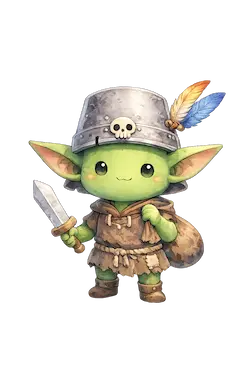
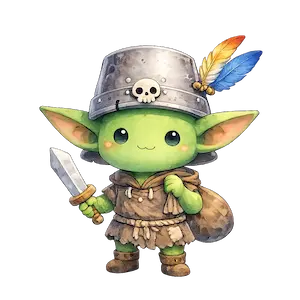
Update enemy death handling and appearance effects
Improved poison death log message and added death check in battle_manager.js. Removed unused showSplittingAppear method and preloaded zabochi.webp in battle_director.js. Updated CSS for .zabochi-appear to use !important. Updated goblin.webp resource.

Changed region(s): [[0.112, 0.12, 0.896, 0.93]]

diff --git a/battle_director.js b/battle_director.js
@@ -6,6 +6,9 @@ export class BattleDirector {
         this.effects = effects;
         this.party = party;
         this.enemies = enemies;
+        
+        const img = new Image();
+        img.src = './resource/zabochi.webp';
     }
 
     /**
@@ -209,26 +212,6 @@ export class BattleDirector {
         }
     }
 
-    // 登場演出
-    showSplittingAppear(startIndex) {
-        // startIndex=左, startIndex+2=右
-        const unitLeft = document.getElementById(`enemy-sprite-${startIndex}`);
-        const unitRight = document.getElementById(`enemy-sprite-${startIndex+2}`);
-
-        // 左側
-        if (unitLeft) {
-            unitLeft.classList.remove('appear-left'); 
-            void unitLeft.offsetWidth; 
-            unitLeft.classList.add('appear-left');
-        }
-
-        // 右側
-        if (unitRight) {
-            unitRight.classList.remove('appear-right');
-            void unitRight.offsetWidth;
-            unitRight.classList.add('appear-right');
-        }
-    }
 
     showSplittingTransform(oldName) {
         this.ui.addLog(`${oldName}は3匹に分裂した！`, "#ff00ff");

diff --git a/battle_manager.js b/battle_manager.js
@@ -166,7 +166,7 @@ export class BattleManager {
             }
 
             // 描画更新: 毒で死んだ場合の画像更新なども含めて行う
-            this.ui.refreshEnemyGraphics(this.state.enemies); 
+            //this.ui.refreshEnemyGraphics(this.state.enemies); 
             // その後にアイコン（数値）を更新する
             this.updateUI();
             
@@ -175,7 +175,9 @@ export class BattleManager {
 
             // 毒で倒れた場合
             if (!actor.is_alive()) {
-                this.ui.addLog(`${actor.name}は力尽きた...`, "#e74c3c");
+                this.ui.addLog(`${actor.name}は 毒に蝕まれ、力尽きた...`, "#e74c3c");
+                const targetId = this.executor.director._getTargetId(actor);
+                this.executor.director._checkDeath(actor, targetId);
                 this.nextTurn();
                 return; // ここで処理を抜ける
             }

diff --git a/CSS/effects.css b/CSS/effects.css
@@ -329,7 +329,7 @@
 
 /* 3. 神猫ざぼち降臨 */
 .zabochi-appear {
-    position: fixed;
+    position: fixed !important;
     top: 50%; left: 50%;
     transform: translate(-50%, -50%);
     max-width: 60%; 
